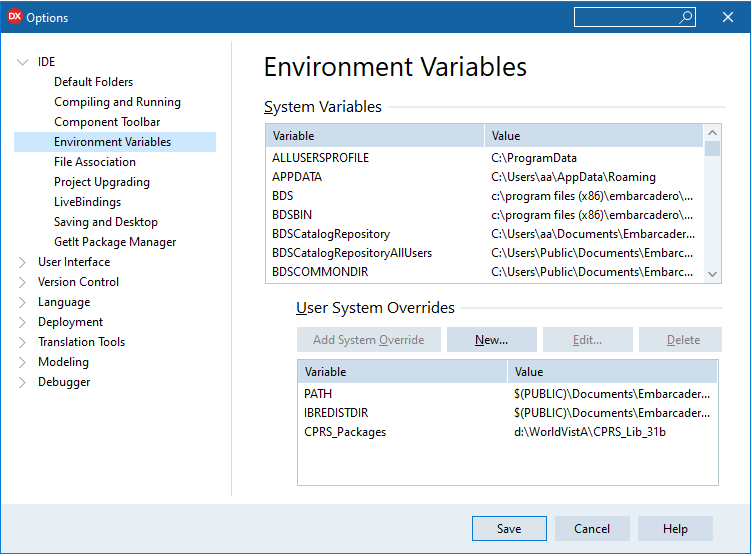
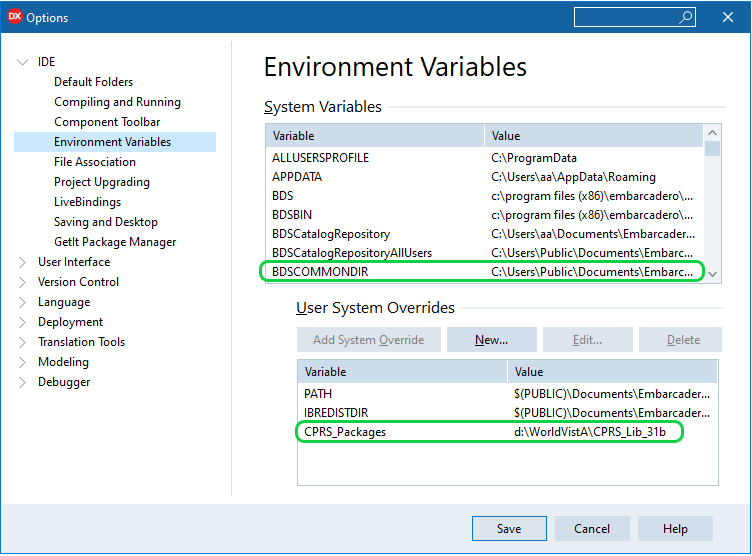
Updated with new images.

Changed region(s): [[0.3364, 0.4586, 0.9481, 0.5198], [0.367, 0.7338, 0.9176, 0.795]]

diff --git a/ReadMe/VW2020.htm b/ReadMe/VW2020.htm
@@ -124,40 +124,81 @@
     <td align="right" valign="top"><em><strong></strong></em> </td>
     <td >
       <em><strong>Before you begin:</strong></em></p>
-      If you want to separate your work on <i>CPRSChart</i> from other Delphi projects or plan to work with
-			several versions of <i>CPRS packages</i> you might create a separate IDE setup for this.
-			<p>Create an icon for launching IDE specifically for work on related projects and use <i>-r</i>
-			parameter to specify version of the IDE setup.
-			In the next example of the icon target line the name of the setup is <i>WorldVistA</i>:</p>
-      <i>"C:\Program Files (x86)\Embarcadero\Studio\20.0\bin\bds.exe" -pDelphi -rWorldVistA</i>.
+      It is common to use Delphi for development of several applications using
+			the same set of component libraries.
+			<p>
+			In case you need to work with different versions of the same library
+			you will need to control what version of packages Delphi IDE should use.
+
+		  Delphi resolve this issue by use of IDE command line <i>-r</i> switch.
+			The switch value identifies Windows registry key that contains parameters of the IDE at startup.
+			<p>
+			The next image illustrates the use of <i>-r</i> switch to start IDE. The sitch value is set to <i>WorldVistA</i>:</p>
+		  <p>
+      <img src="IDEShortcut.PNG"/>
+			<p>
+				<table>
+					<tr valign="top">
+						<td>NOTE:</td>
+						<td>The icon image was also changed - as the reminder of the special IDE settings.</td>
+			</tr>
+		</table>
 			<p>
 
       <a href="http://docwiki.embarcadero.com/RADStudio/Sydney/en/IDE_Command_Line_Switches_and_Options">
-				More about Delphi Command Line switches and options</a><p>
+				More about Delphi Command Line switches and options</a>
+				<p>
 
+
+
+
+      <p>
 			<em><strong>1. Removing previous versions of packages</strong></em></p>
-      Open <i>"Components|Install Packages..."</i> dialog and verify there are no previous versions of CPRS packages installed</p>
 
+			<p>
+				To review packages installed in IDE:
+				<p>
+					<ul>
+						<li> Close project opened in IDE with <i>"File|Close All"</i> command of Delphi main menu
+						<li> Open packages dialog with <i>"Components|Install Packages..."</i> command of main menu.
+						<li> Verify if there are previous versions of CPRS packages installed.
+					  <li> Use "Remove..." button to remove a package
+					</ul>
+
+      <p>
 			<img src="installedPackages.PNG"/></a></p>
 
       <table>
 				<tr valign="top">
 					<td>NOTE:</td>
-					<td> If you compiled packages before and have previous versions of the <i>*.bpl</i> files
-			on your system you might need to remove them manually.</td>
+					<td> If you compiled packages before and have previous versions of the <i>*.bpl</i> files not listed in the
+			"Install Packages" dialog you might need to find and remove them manually.</td>
 		</tr>
 	</table>
 	<p>
 			<em><strong>2. Setting environment variables to specify location of the compiled packages</strong></em></p>
       By default Delphi saves results of package compilations in the direcory defined by the environment variable <i>BDSCOMMONDIR</i>.
-			Changing the default value allows you to control where the compiled packages and other files required for your project compilation will be placed.<p>
-	    <img src="DelphiEnvironment.PNG"/></a></p>
+			Changing the default value allows you to control where the compiled packages and other files required for your project compilation will be placed.
 
+			<p><img src="DelphiEnvironment.PNG"/></a>
+	<p>
+			To add or modify environment variables:
+			<p>
+        <ul>
+					<li> Opent IDE options dialog with <i>"Tools|Options..."</i> command of Delphi main menu.
+					<li> Use "New..."or "Edit..." buttons to open variable editor
+				</ul>
+
+				 <p><img src="EditVariable.PNG"/></a>
+
+      <p>
       <em><strong>3. Updating Delphi Options</strong></em></p>
-      Use the environment variable in fields <i>Package output directory</i>, <i>DCP output directory</i>:<p>
+      Use the environment variable created in step 2 in fields <i>Package output directory</i>, <i>DCP output directory</i>:<p>
 	    <img src="DelphiOptionsLibrary.PNG"/></a></p>
+
+
+
       Don't forget to select the correct Compilation Platform <i>Windows 32-bit</i>!<p>
-      Add references to the location to <i>Library Path</i> and <i>Browsing Path</i><p>
 
 				<table>
 					<tr valign="top">
@@ -166,11 +207,33 @@
     	 CPRS Packages v31b are configured to use <i>pre-</i> and <i>post-</i> build events:
  	    <i>pre-</i> build event creates a <i>Resource</i> directory.
 		  <i>post-</i> build event copies <i>.dec, .dfm</i> files to the <i>Resource</i> directory. <p>
-      </td></tr></table>
+      </td></tr>
+          <tr>
+						<td/>
+						<td>Fields <i>Package output directory</i>, <i>DCP output directory</i> set in <i>Options</i>
+							dialog are used by IDE for compilation of ALL packages.
+							Keep it in mind when compiling libraries other then <i>CPRS_Packages</I>
+
+		   </table>
+      <p>
+				Add variabels to <i>Library Path</i> and <i>Browsing Path</i><p>
+
+      <p>
 
  		  <img src="DelphiOptionsLibraryDirectories.PNG"/></a></p>
-	    <em><strong>SAVE OPTIONS AND RESTART DELPHI IDE</strong></em></p>
-      After restart Delphi will offer to add new environment to existing set - confirm this change.<p>
+
+			<table>
+				<tr valign="top">
+					<td>NOTE:</td>
+					<td>You need to add reference on <i>Resource</i> location to both <i>Library Path</i> and <i>Browsing Path</i> lists
+				</td>
+			</tr>
+		</table>
+<p>
+
+	    <em><strong>4. Save options and restart Delphi IDE</strong></em></p>
+<p>
+	    After restart Delphi will offer to add new environment to existing set - confirm this change.<p>
       Now it's time to open Package Group containing source code of the CPRS packages.<p>
     </td>
   </tr>
@@ -312,7 +375,10 @@
       <em><strong>2. Rebuild packages starting from the top of the list.</strong></em><br>
 	    <em><strong>3. Install Design-time packages after the build.</strong></em>
 			<p>
-				To verify if the components are now available  restart Delphi and review the component palette.
+				To verify if the components are now available restart Delphi, open CPRS GUI project, and review the component palette.
+	      	
+			<p>
+
     </td>
   </tr>
 	<tr>
